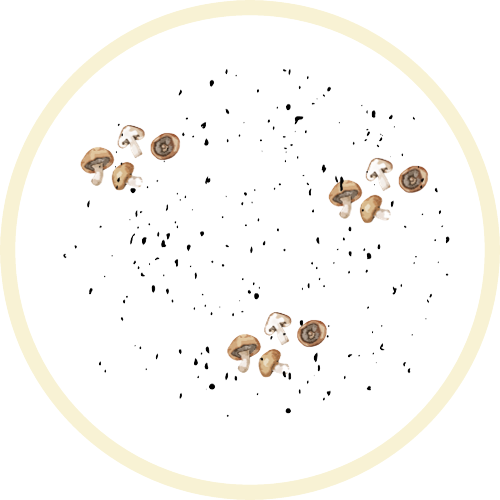
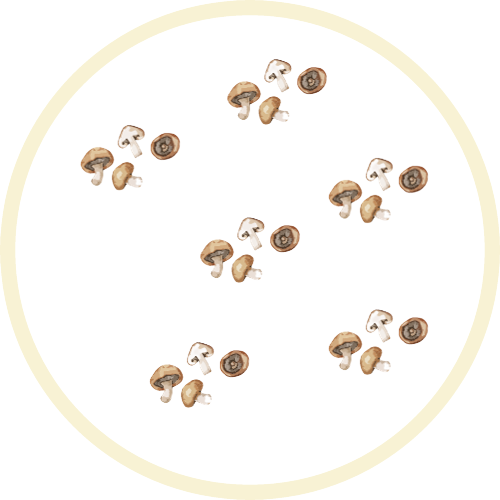
pizza image update

diff --git a/src/components/PizzaContainerComponents/ToppingLists.jsx b/src/components/PizzaContainerComponents/ToppingLists.jsx
@@ -3,26 +3,30 @@ import React from "react";
 import Topping from "./Topping";
 import ButtonPizza from "./ButtonPizza";
 
-const ToppingLists = ({ onDrop }) => {
+const ToppingLists = () => {
   const toppingIngredients = [
-    { name: "MUSHROOM", type: "mushroom-topping", img: "mushroom.png" },
-    { name: "TOMATO", type: "tomato-topping", img: "tomato.png" },
-    { name: "OLIVE", type: "olive-topping", img: "olive.png" },
+    { name: "MUSHROOM", type: "mushroom-topping", img: "mushroom.png",chopped_img:"chopped-mushroom.png" },
+    { name: "TOMATO", type: "tomato-topping", img: "tomato.png",chopped_img:"chopped-tomato.png" },
+    { name: "OLIVE", type: "olive-topping", img: "olive.png" ,chopped_img:"chopped-olive.png"},
+    { name: "Salt", type: "salt-topping", img: "salt.png" ,chopped_img:"salt.png"},
+    { name: "Sauce", type: "sauce-topping", img: "sauce.png" ,chopped_img:"sauce.png"},
+
+
   ];
   return (
-    <Box position={"absolute"} mt={"50px"}>
+    <Box position={"absolute"} mt={"30px"}>
       <Text textAlign={"initial"} fontSize={30} fontFamily={"monospace"}>
         Select Toppings
       </Text>
       <Box mt={5}>
-        <SimpleGrid columns={2} spacing={5}>
+        <SimpleGrid columns={{base:2,lg:4}} spacing={5}>
           {toppingIngredients?.map((topping) => (
             <Topping
               key={topping.type}
               name={topping.name}
               type={topping.type}
+              choppedImg={topping.chopped_img}
               img={topping.img}
-              onDrop={onDrop}
             />
           ))}
         </SimpleGrid>

diff --git a/src/context/SelectedBase.jsx b/src/context/SelectedBase.jsx
@@ -15,6 +15,17 @@ export const SelectedBaseProvider = ({ children }) => {
   const [displayFinalPizza, setDisplayFinalPizza] = useState(false);
   const toast = useToast();
 
+
+  const [toppingIngredients,setToppingIngredients] = useState([
+    { id:1,name: "MUSHROOM", type: "mushroom-topping", img: "mushroom.png" },
+    { id:2,name: "TOMATO", type: "tomato-topping", img: "tomato.png" },
+    {id:3, name: "OLIVE", type: "olive-topping", img: "olive.png" },
+  ]);
+
+
+
+
+
   const handleCancelPizza = () => {
     setChooseBase(null);
     setToppings([]);
@@ -22,12 +33,12 @@ export const SelectedBaseProvider = ({ children }) => {
   };
 
   const handleServePizza = () => {
-    if (selectedBase && toppings.length > 0) {
+    if (selectedBase && toppings.length > 2) {
       setDisplayFinalPizza(true);
     } else {
       toast({
         title: "Select Ingredients",
-        description: "Please select toppings before serving!",
+        description: "Please select at least 3 toppings before serving!",
         status: "info",
         duration: 3000,
         isClosable: true,
@@ -54,6 +65,8 @@ export const SelectedBaseProvider = ({ children }) => {
         handleServePizza,
         handleCancelPizza,
         handleNewPizza,
+        toppingIngredients,
+        setToppingIngredients,
       }}
     >
       {children}

diff --git a/src/components/PizzaContainerComponents/Topping.jsx b/src/components/PizzaContainerComponents/Topping.jsx
@@ -1,8 +1,8 @@
-import { Box } from "@chakra-ui/react";
+import { Box, Image, Text } from "@chakra-ui/react";
 import React from "react";
 import { useDrag } from "react-dnd";
 
-const Topping = ({ name, img, onDrop }) => {
+const Topping = ({ name, img,choppedImg}) => {
   const [{ isDragging }, drag] = useDrag({
     type: "TOPPING",
     item: { type: "TOPPING", name, img },
@@ -11,19 +11,23 @@ const Topping = ({ name, img, onDrop }) => {
     }),
   });
 
+  
+
   return (
     <Box
-      ref={drag}
+     
       style={{ opacity: isDragging ? 0.5 : 1 }}
-      onDrop={onDrop}
-      bg="#f5e08e"
-      w="250px"
-      height="50px"
+      // bg="#f5e08e"
+      w="100px"
+      height="100px"
+      rounded={"50%"}
       display={"flex"}
       alignItems={"center"}
       justifyContent={"center"}
+      flexDir={"column"}
     >
-      {name}
+   <Image src={choppedImg}  ref={drag}/>
+   <Text>{name}</Text>
     </Box>
   );
 };

diff --git a/src/components/PizzaContainerComponents/PizzaModel.jsx b/src/components/PizzaContainerComponents/PizzaModel.jsx
@@ -39,6 +39,7 @@ const PizzaModel = () => {
 
   const imageStyle = {
     position: "absolute",
+    transition: "transform 0.8s ease-in-out"
   };
 
   return (
@@ -63,6 +64,8 @@ const PizzaModel = () => {
       >
         {/* Ingredients layers */}
 
+    
+
         {chooseBase && (
           <Image
             src={chooseBase.img}
@@ -82,6 +85,17 @@ const PizzaModel = () => {
             left="0"
           />
         ))}
+
+
+{displayFinalPizza && (
+          <Image
+            src={"cut.png"}
+            style={imageStyle}
+            boxSize="100%"
+            top="0"
+            left="0"
+          />
+        )}
       </Box>
     </Box>
   );

diff --git a/src/components/PizzaContainerComponents/PizzaBase.jsx b/src/components/PizzaContainerComponents/PizzaBase.jsx
@@ -2,7 +2,7 @@ import { Box, Text } from "@chakra-ui/react";
 import React from "react";
 import Base from "./Base";
 
-const PizzaBase = ({ onDrop }) => {
+const PizzaBase = () => {
   const baseIngredients = [
     { name: "Thick Base", type: "thick-base", img: "thick.png" },
     { name: "Thin Base", type: "thin-base", img: "thin.png" },
@@ -25,7 +25,6 @@ const PizzaBase = ({ onDrop }) => {
             name={base.name}
             type={base.type}
             img={base.img}
-            onDrop={onDrop}
           />
         ))}
       </Box>

diff --git a/src/components/PizzaContainerComponents/Base.jsx b/src/components/PizzaContainerComponents/Base.jsx
@@ -2,7 +2,7 @@ import { Box, Image, Text } from "@chakra-ui/react";
 import React from "react";
 import { useDrag } from "react-dnd";
 
-const Base = ({ name, img, onDrop }) => {
+const Base = ({ name, img }) => {
   const [{ isDragging }, drag] = useDrag({
     type: "PIZZA_BASE",
     item: { type: "PIZZA_BASE", name, img },
@@ -15,7 +15,6 @@ const Base = ({ name, img, onDrop }) => {
     <Box
       ref={drag}
       opacity={isDragging ? 0.5 : 1}
-      onDrop={onDrop}
       w="20%"
       h="20%"
       display={"flex"}

diff --git a/src/pages/PizzaContainer.jsx b/src/pages/PizzaContainer.jsx
@@ -12,6 +12,7 @@ const PizzaContainer = () => {
       display="flex"
       alignItems="center"
       justifyContent="center"
+      flexDir={{base:"column",lg:"row"}}
     >
       <Box w="50%" h="100%">
         <PizzaModel />
